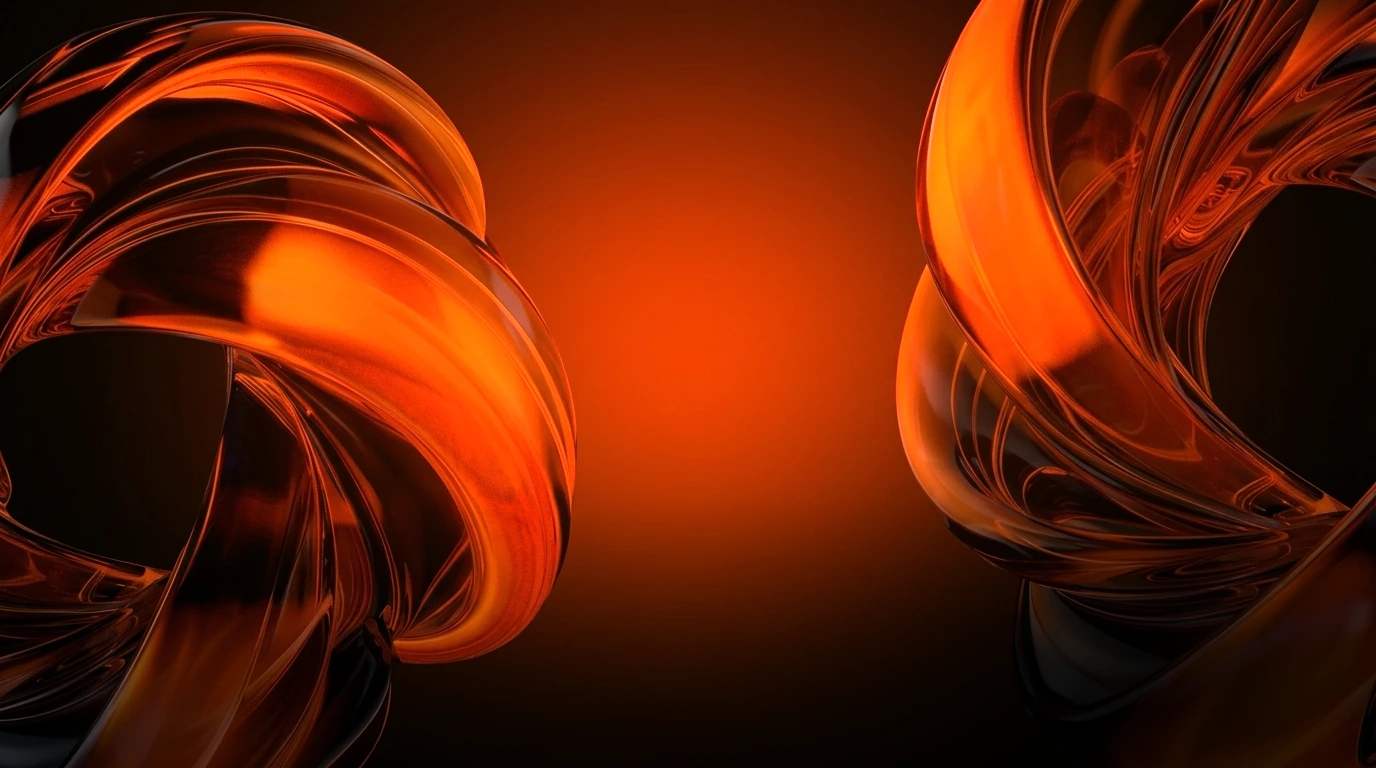
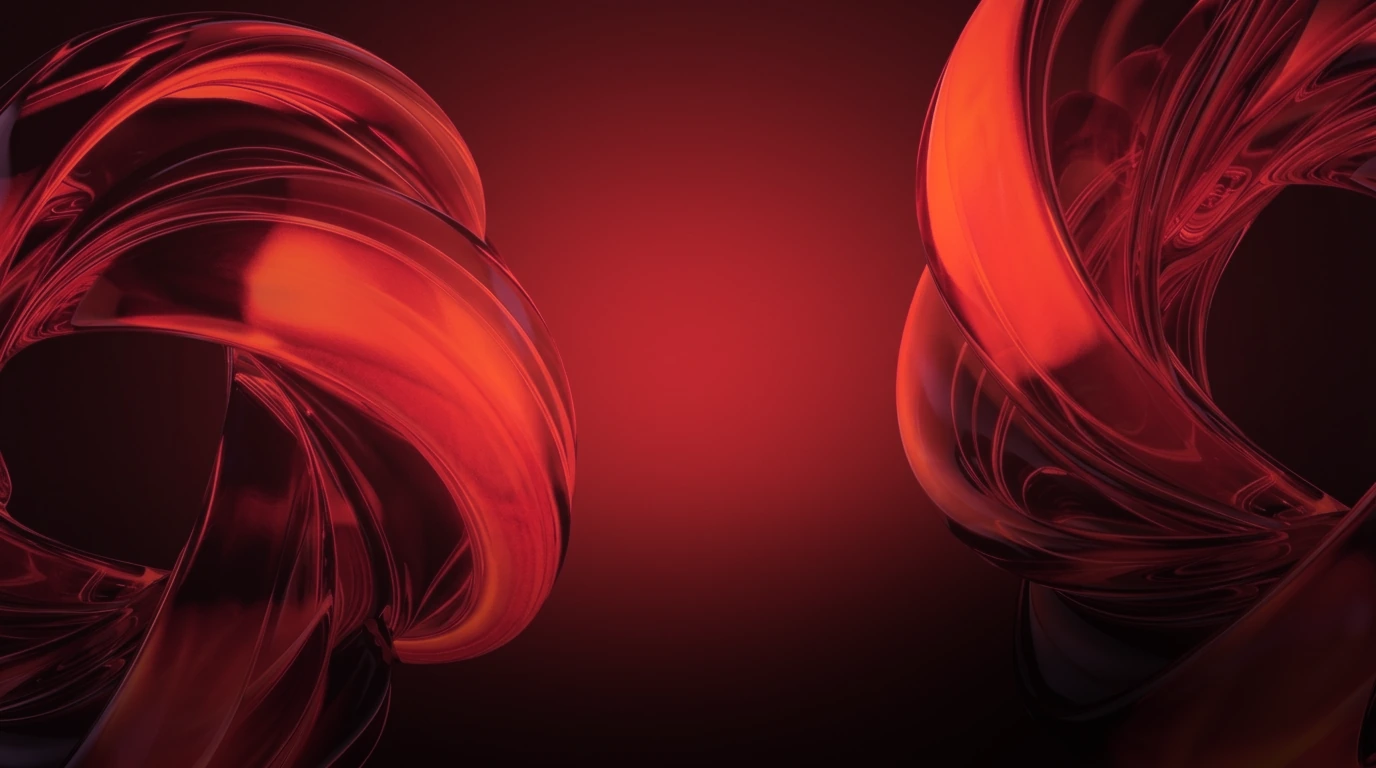
Changes shades of magma ring

diff --git a/styles.css b/styles.css
@@ -285,13 +285,13 @@ button:disabled,
 }
 
 .introduction.surface--maroon {
-  background-color: #090201;
+  background-color: #12060A;
   background-image:
-    radial-gradient(ellipse 68% 62% at 50% 28%, #d43800 0%, #9e2200 34%, #4c0c01 66%, rgba(10, 2, 1, 0) 100%),
-    radial-gradient(ellipse 90% 75% at 50% 40%, #6b1402 0%, #240502 58%, #070101 100%),
-    linear-gradient(180deg, #7a1903 0%, #4d0d02 48%, #160301 82%, #050101 100%);
-  --surface-scanline: rgba(255, 140, 60, 0.012);
-  --surface-grain: rgba(255, 180, 120, 0.018);
+    radial-gradient(ellipse 68% 62% at 50% 28%, #8E202E 0%, #6A1826 36%, #3B0D18 68%, rgba(18, 6, 10, 0) 100%),
+    radial-gradient(ellipse 90% 75% at 50% 40%, #521320 0%, #240A11 58%, #0E0407 100%),
+    linear-gradient(180deg, #681A28 0%, #42121E 48%, #1D0B10 82%, #0C0407 100%);
+  --surface-scanline: rgba(255, 220, 210, 0.015);
+  --surface-grain: rgba(255, 225, 215, 0.02);
 }
 
 .introduction.surface--maroon::after {
@@ -528,9 +528,9 @@ button:disabled,
 
 .hero-sculpture::before {
   background:
-    radial-gradient(ellipse 52% 48% at 50% 34%, rgba(255, 68, 0, 0.28), transparent 72%),
-    radial-gradient(ellipse 44% 54% at 18% 42%, rgba(255, 76, 10, 0.18), transparent 70%),
-    radial-gradient(ellipse 44% 54% at 82% 38%, rgba(255, 64, 8, 0.16), transparent 70%);
+    radial-gradient(ellipse 52% 48% at 50% 34%, rgba(178, 38, 54, 0.24), transparent 72%),
+    radial-gradient(ellipse 44% 54% at 18% 42%, rgba(190, 48, 52, 0.15), transparent 70%),
+    radial-gradient(ellipse 44% 54% at 82% 38%, rgba(175, 42, 50, 0.14), transparent 70%);
 }
 
 .hero-sculpture-canvas {
@@ -539,23 +539,24 @@ button:disabled,
   display: block;
   width: 100%;
   height: 100%;
+  opacity: 0.82;
   will-change: opacity;
 }
 
-/* Deep studio floor shadow at the bottom and subtle top edge blend for nav & copy readability. */
+/* Subtle burgundy veil over the rings & studio floor shadow so foreground typography stays crisp. */
 .hero-sculpture::after {
   z-index: 1;
   background:
-    linear-gradient(to top, rgba(4, 1, 1, 0.92) 0%, rgba(10, 2, 1, 0.58) 18%, rgba(18, 3, 1, 0.18) 36%, transparent 56%),
-    radial-gradient(ellipse 48% 30% at 86% 92%, rgba(5, 1, 1, 0.68), transparent 78%),
-    linear-gradient(to bottom, rgba(12, 2, 1, 0.32), transparent 15%);
+    linear-gradient(180deg, rgba(28, 9, 15, 0.34) 0%, rgba(28, 9, 15, 0.20) 32%, rgba(20, 6, 11, 0.24) 64%, rgba(10, 3, 6, 0.88) 100%),
+    radial-gradient(ellipse 48% 30% at 86% 92%, rgba(12, 4, 7, 0.72), transparent 78%),
+    radial-gradient(ellipse 90% 22% at 50% 21%, rgba(32, 10, 16, 0.32), transparent 76%);
 }
 
 @media (max-width: 899px) {
   .hero-sculpture::after {
     background:
-      linear-gradient(to top, rgba(4, 1, 1, 0.94) 0%, rgba(10, 2, 1, 0.68) 24%, transparent 52%),
-      linear-gradient(to bottom, rgba(12, 2, 1, 0.38), transparent 18%);
+      linear-gradient(180deg, rgba(28, 9, 15, 0.40) 0%, rgba(26, 8, 14, 0.26) 45%, rgba(10, 3, 6, 0.92) 100%),
+      radial-gradient(ellipse 80% 30% at 50% 46%, rgba(30, 10, 16, 0.32), transparent 78%);
   }
 }
 

diff --git a/hero-sculpture.js b/hero-sculpture.js
@@ -178,12 +178,14 @@
       float spec = pow(max(dot(normal, halfVec), 0.0), 36.0);
       float rimShift = sin(lightAngle + finalUv.y * 6.0 - finalUv.x * 4.0) * 0.5 + 0.5;
 
-      // Add scroll-reactive molten specular glints & subtle caustics evolution (zero at p = 0)
+      // Add scroll-reactive crimson-rose & copper-amber specular glints (zero at p = 0)
       float dynStrength = sin(p * 3.14159265) * 0.85 + p * 0.35;
-      vec3 dynHighlight = vec3(1.0, 0.38, 0.06) * spec * ridgeStrength * sculptureMask * dynStrength * 1.35;
-      vec3 dynCaustic = vec3(0.95, 0.20, 0.02) * ridgeStrength * rimShift * sculptureMask * dynStrength * 0.24;
+      vec3 dynHighlight = vec3(0.96, 0.36, 0.28) * spec * ridgeStrength * sculptureMask * dynStrength * 1.15;
+      vec3 dynCaustic = vec3(0.78, 0.16, 0.22) * ridgeStrength * rimShift * sculptureMask * dynStrength * 0.22;
 
       vec3 col = baseCol + dynHighlight + dynCaustic;
+      // Slightly soften peak contrast of the outer ribbon lobes so foreground text remains dominant
+      col = mix(vec3(0.08, 0.025, 0.038), col, 0.88);
 
       // Soft vignette at the outer edges when rotated so the sculpture blends seamlessly into the dark backdrop
       float edgeFade = 1.0 - smoothstep(0.82, 1.02, max(abs(v_ndc.x), abs(v_ndc.y))) * p * 0.55;
@@ -299,7 +301,7 @@
     layout.w = cssW;
     layout.h = cssH;
     layout.aspect = cssW / cssH;
-    layout.maxOpacity = layout.aspect < 1 ? 0.90 : 1;
+    layout.maxOpacity = layout.aspect < 1 ? 0.74 : 0.91;
   }
 
   function render(p) {
